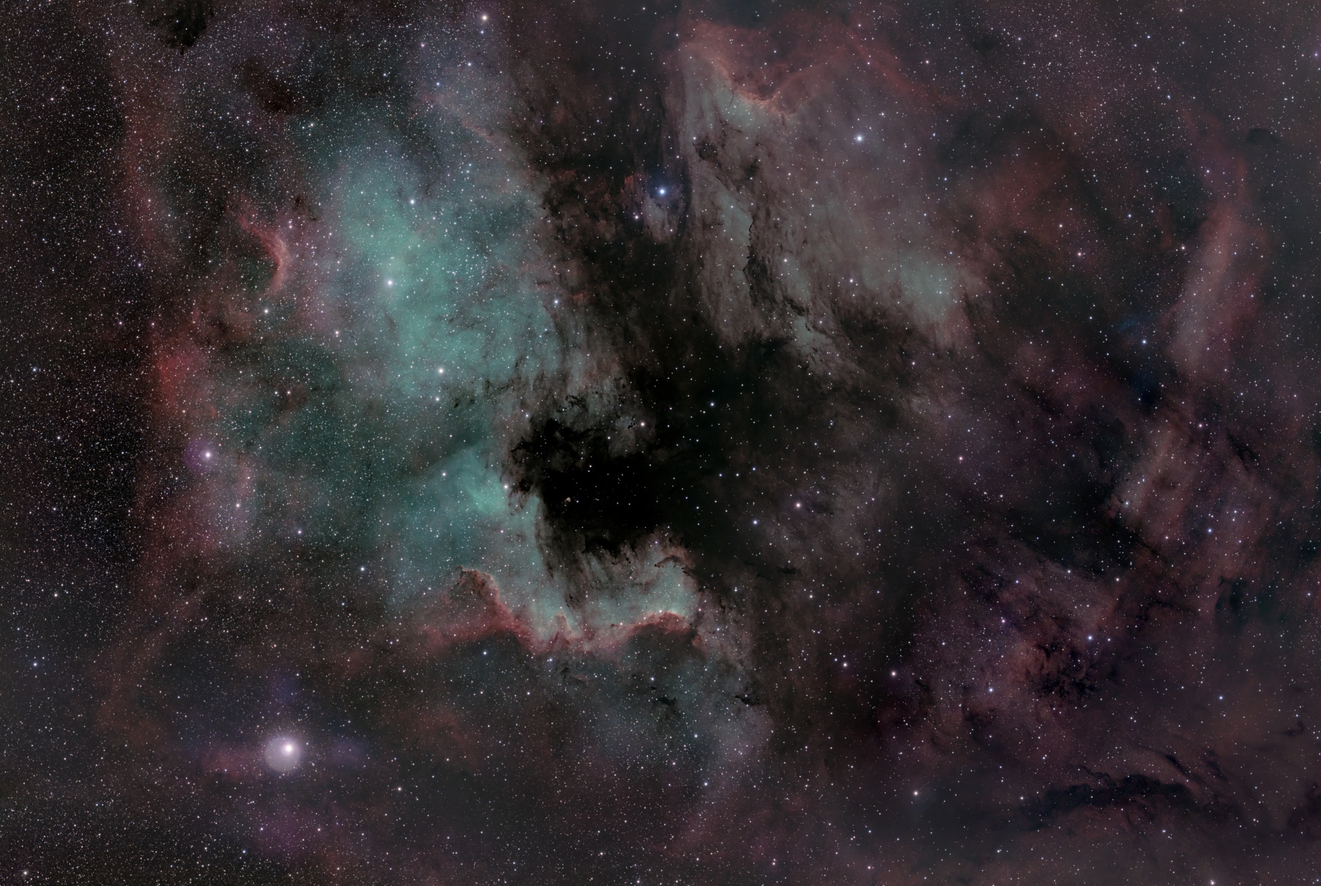
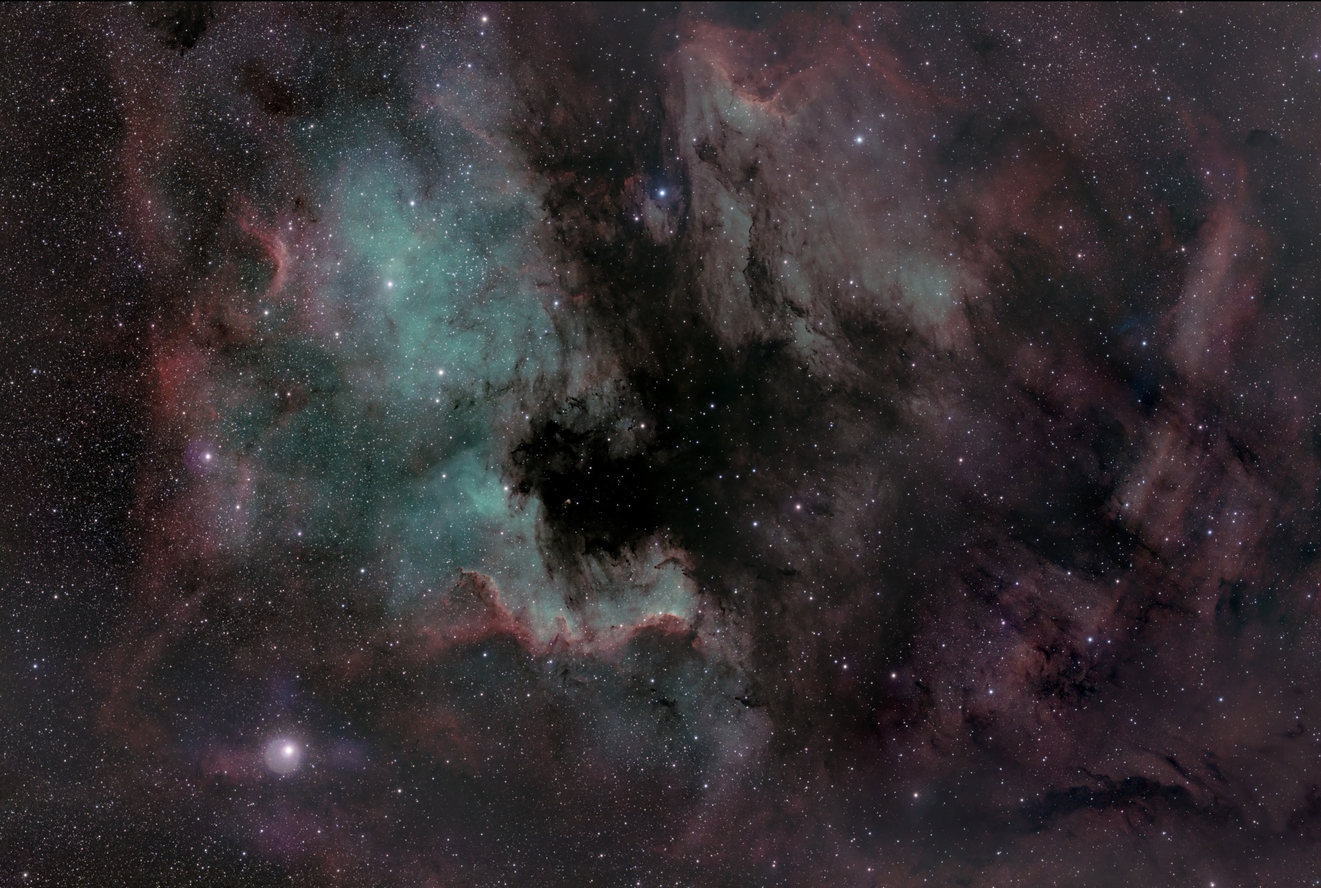
Release v2.7.2

diff --git a/src/AstrophotographySite.jsx b/src/AstrophotographySite.jsx
@@ -5800,11 +5800,16 @@ function NorthAmericanNebulaPage({ navigate }) {
       return;
     }
     if (event.touches.length === 1) {
+      const currentZoom = zoomRef.current || zoom;
+      if (currentZoom <= 1.02) {
+        touchRef.current = { ...touchRef.current, mode: "page-scroll", zoom: currentZoom };
+        return;
+      }
       const touch = event.touches[0];
       touchRef.current = {
         mode: "pan",
         distance: 0,
-        zoom: zoomRef.current || zoom,
+        zoom: currentZoom,
         x: touch.clientX,
         y: touch.clientY,
         left: el.scrollLeft,
@@ -5855,6 +5860,7 @@ function NorthAmericanNebulaPage({ navigate }) {
       return;
     }
     if (event.touches.length === 1 && touchRef.current.mode === "pan") {
+      if ((zoomRef.current || zoom) <= 1.02) return;
       event.preventDefault();
       const touch = event.touches[0];
       el.scrollLeft = touchRef.current.left - (touch.clientX - touchRef.current.x);
@@ -5868,7 +5874,7 @@ function NorthAmericanNebulaPage({ navigate }) {
     if (event.touches && event.touches.length === 1) {
       const touch = event.touches[0];
       touchRef.current = {
-        mode: "pan",
+        mode: (zoomRef.current || zoom) > 1.02 ? "pan" : "page-scroll",
         distance: 0,
         zoom: zoomRef.current || zoom,
         x: touch.clientX,
@@ -6071,7 +6077,7 @@ function NorthAmericanNebulaPage({ navigate }) {
 
         {isImageMode ? (
           <div className="bg-black">
-            <div className="relative min-h-[calc(100svh-88px)] overflow-hidden bg-black sm:min-h-[calc(100vh-146px)] lg:min-h-[calc(100vh-130px)]">
+            <div className="relative overflow-hidden bg-black sm:min-h-[calc(100vh-146px)] lg:min-h-[calc(100vh-130px)]">
               <div className="pointer-events-none absolute left-2 right-2 top-2 z-30 flex justify-center sm:left-5 sm:right-5 sm:top-3">
                 <div className="pointer-events-auto max-w-full rounded-full border border-white/12 bg-black/68 px-2 py-1.5 shadow-[0_18px_50px_rgba(0,0,0,0.48)] backdrop-blur-xl sm:rounded-2xl sm:bg-black/62 sm:p-2.5">
                   <div className="flex flex-nowrap items-center justify-center gap-1 overflow-x-auto sm:flex-wrap sm:gap-2">
@@ -6145,7 +6151,7 @@ function NorthAmericanNebulaPage({ navigate }) {
               </div>
               <div
                 ref={viewerRef}
-                className="max-h-[calc(100svh-210px)] cursor-grab overflow-auto bg-black active:cursor-grabbing sm:h-[88vh] sm:max-h-none"
+                className="cursor-grab overflow-auto bg-black active:cursor-grabbing sm:h-[88vh]"
                 onMouseDown={beginPan}
                 onMouseMove={pan}
                 onMouseUp={endPan}
@@ -6154,7 +6160,7 @@ function NorthAmericanNebulaPage({ navigate }) {
                 onTouchMove={handleViewerTouchMove}
                 onTouchEnd={handleViewerTouchEnd}
                 onTouchCancel={handleViewerTouchEnd}
-                style={{ touchAction: "none", overscrollBehavior: "none", overscrollBehaviorY: "contain", overscrollBehaviorX: "contain" }}
+                style={{ touchAction: zoom > 1.02 ? "none" : "pan-y pinch-zoom", overscrollBehavior: zoom > 1.02 ? "none" : "auto", overscrollBehaviorY: zoom > 1.02 ? "contain" : "auto", overscrollBehaviorX: "contain" }}
               >
                 <div style={{ width: `${100 * zoom}%`, maxWidth: "none", willChange: "width" }} className="relative inline-block min-w-full select-none align-top">
                   {missingLayers[baseLayer] ? (

diff --git a/src/out_AstrophotographySite.jsx b/src/out_AstrophotographySite.jsx
@@ -635,7 +635,7 @@ function HomePage({ sectionScrollMargin, heroFallback, navigate, latestNews, sec
       },
       {
         title: "North America Nebula",
-        src: "/images/gallery/north-american-nebula.jpg",
+        src: "/images/gallery/north-american-nebula-thumb-cropped.jpg",
         astrobin: "https://app.astrobin.com/u/Astro_jake?i=00hw50#gallery",
       },
       {

diff --git a/src/siteVersion.js b/src/siteVersion.js
@@ -1,4 +1,4 @@
-export const SITE_VERSION_NUMBER = "2.7.1";
+export const SITE_VERSION_NUMBER = "2.7.2";
 export const SITE_VERSION = `v${SITE_VERSION_NUMBER}`;
-export const RELEASE_NAME = "2.7.1 mobile viewer spacing fix";
+export const RELEASE_NAME = "2.7.2 mobile viewer crop spacing fix";
 export const RELEASE_DATE = "2026-06-25";
